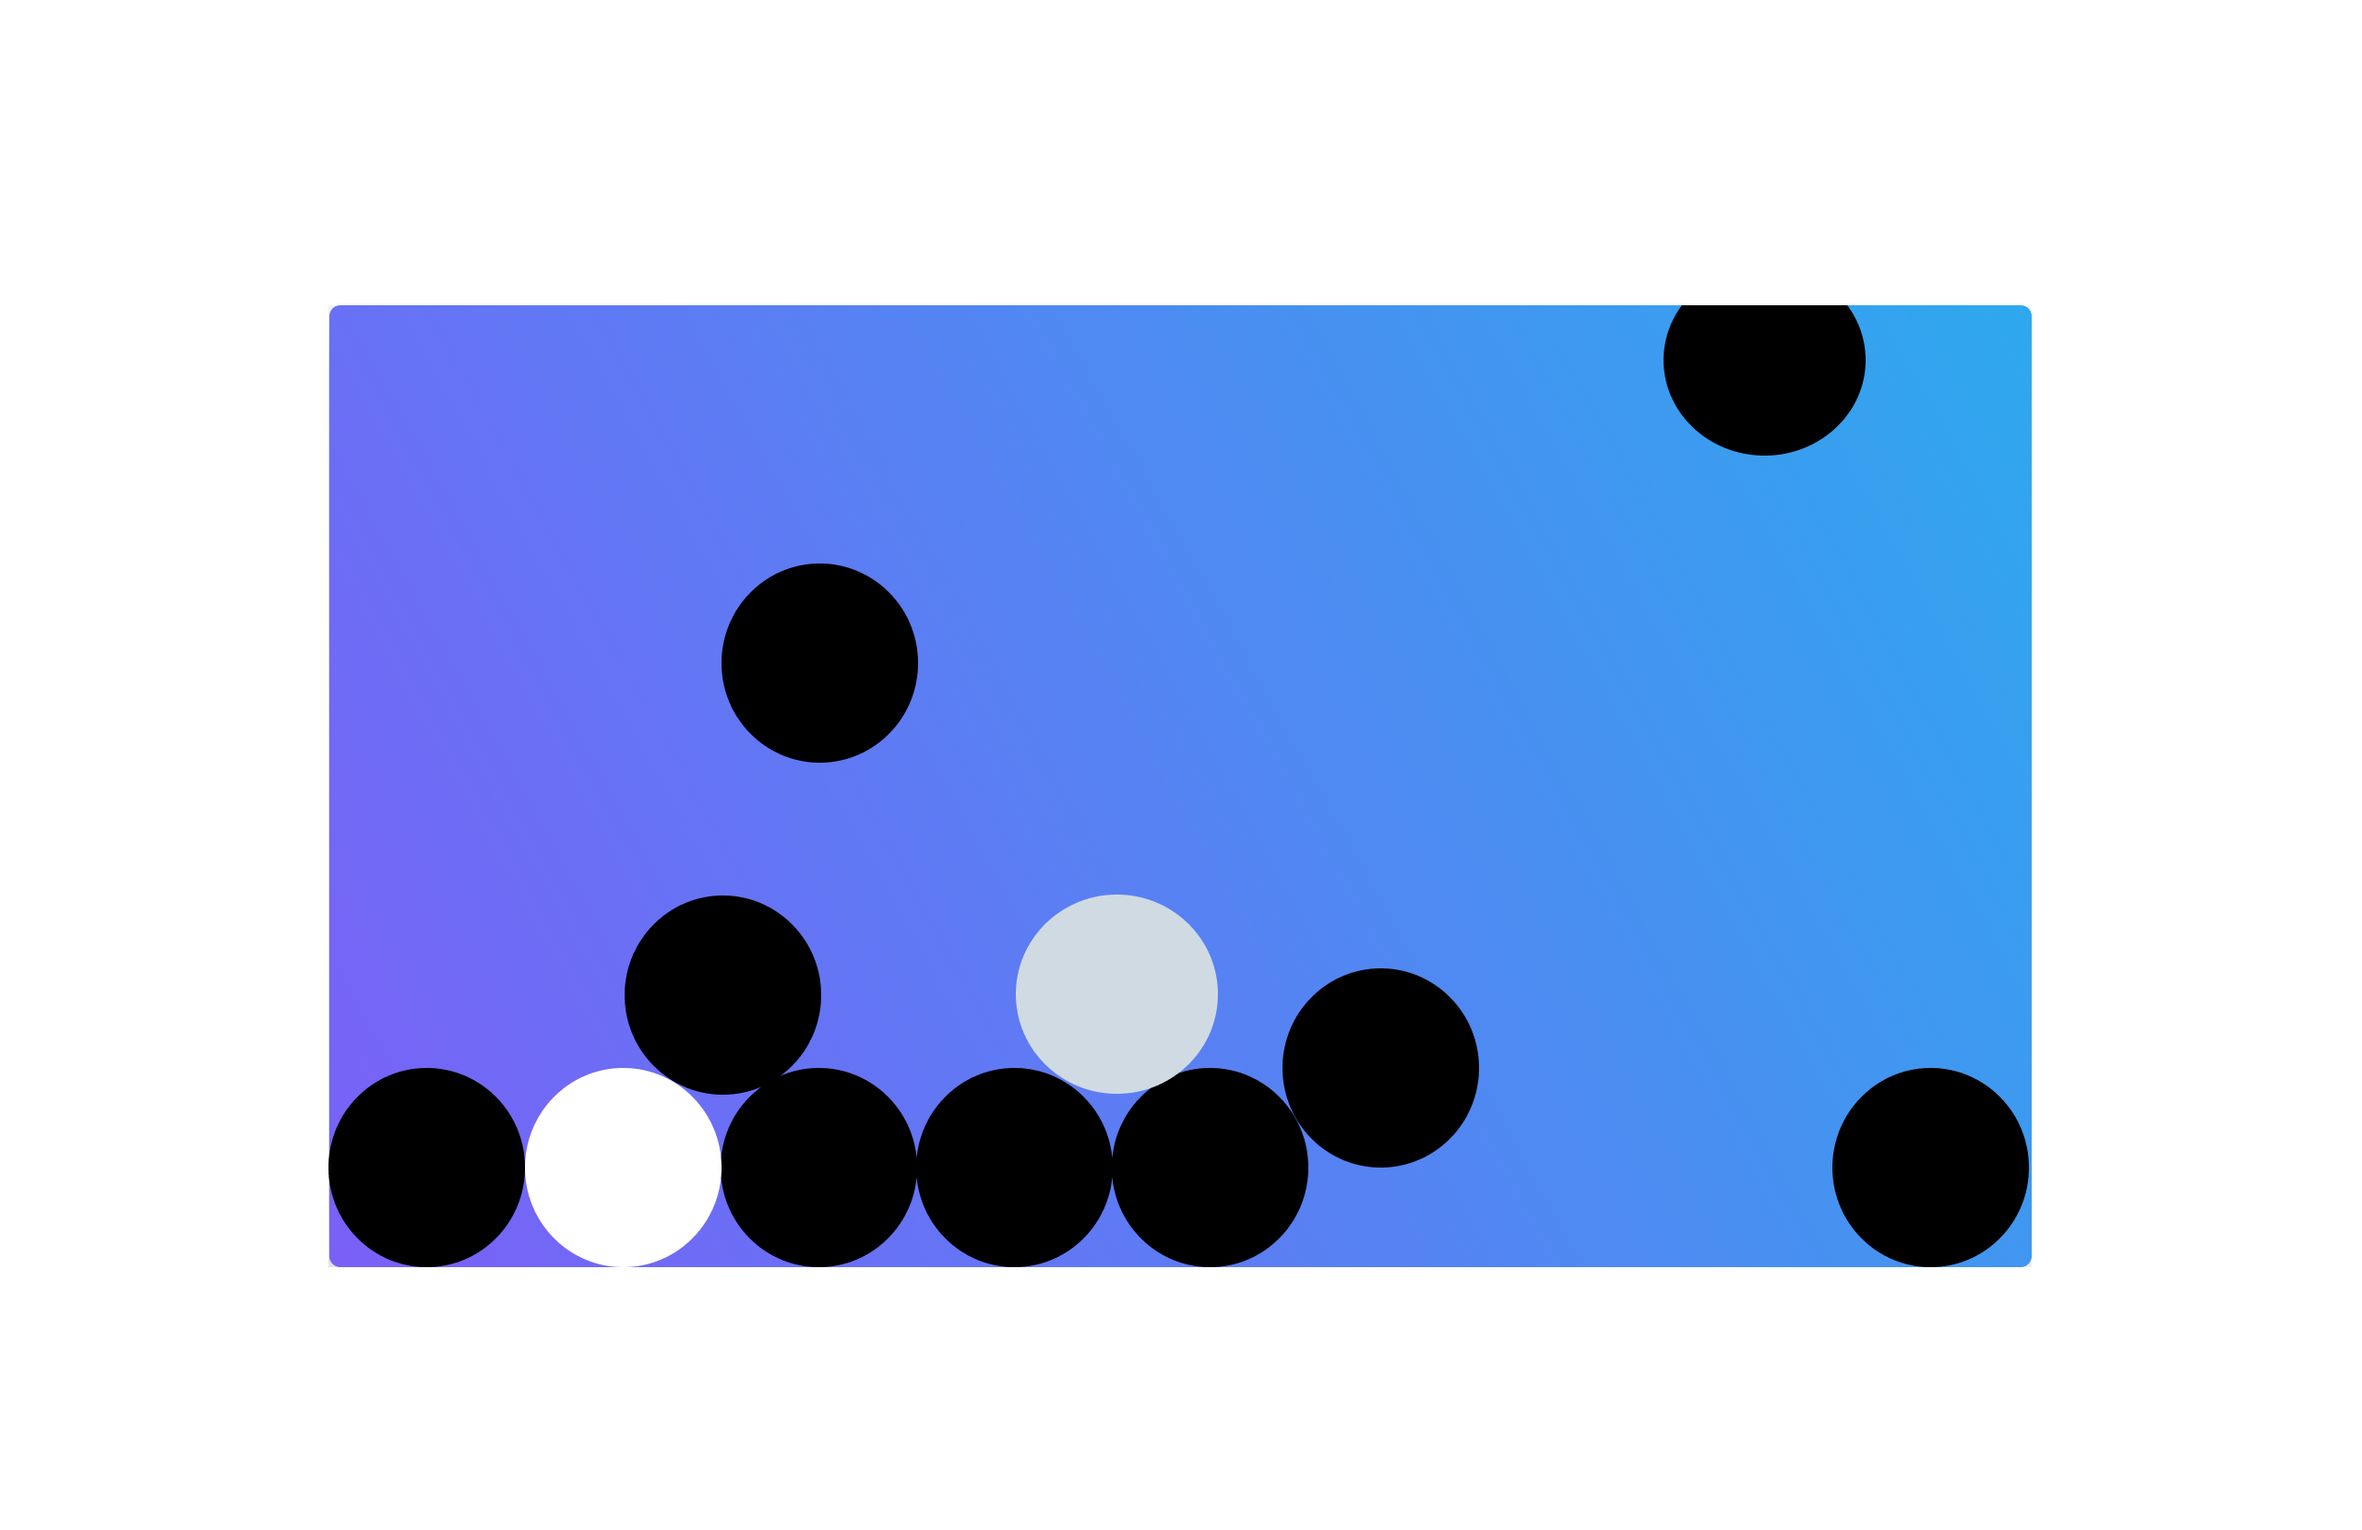
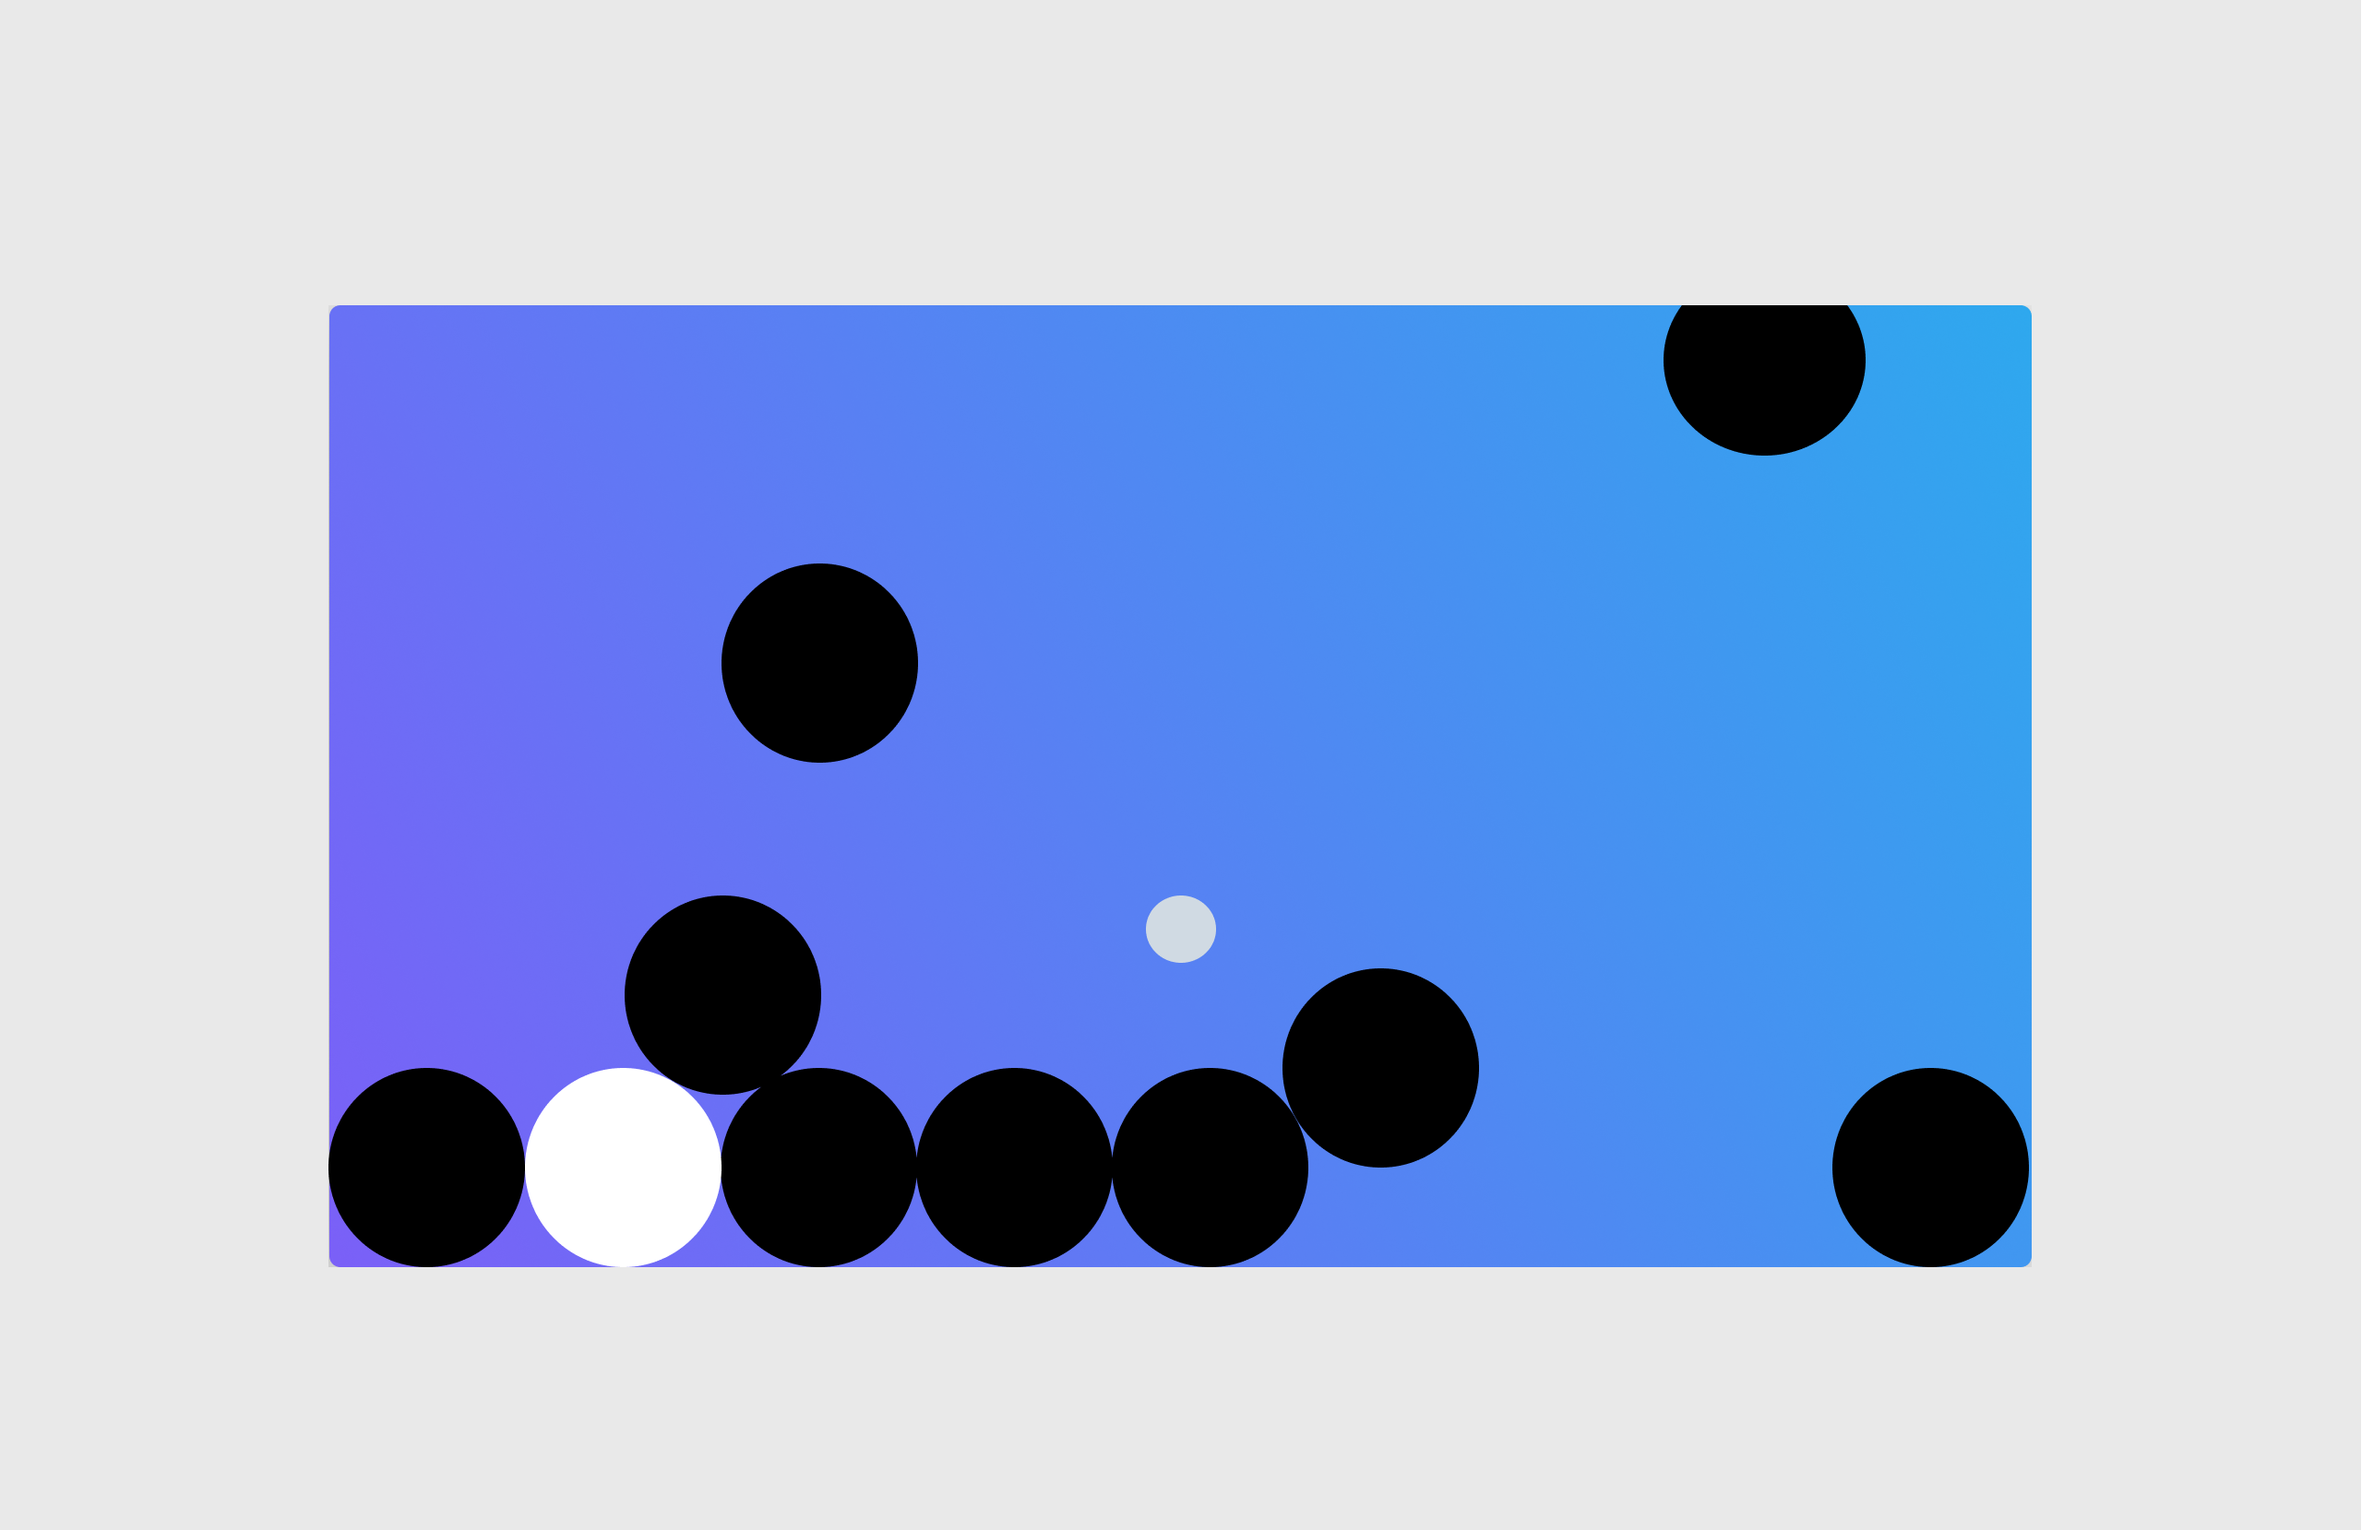
7/8/24

Changed region(s): [[0.4062, 0.5841, 0.5312, 0.7378]]

diff --git a/src/components/Why-choose.jsx b/src/components/Why-choose.jsx
@@ -19,7 +19,7 @@ function Whychoose() {
           <h1 className="absolute z-[9] text-6xl font-medium font-['Montserrat'] leading-none tracking-tighter left-full -translate-x-1/2 top-1/2 -translate-y-1/2 text-zinc-950 ">SERVICE
           {"SERVICE".split("").map((item,index)=><span>{item}</span>)}
           </h1>
-          <div className="card w-full h-full rounded-xl bg-white overflow-hidden">
+          <div style={{backgroundColor:`rgb(233 233 233)`}} className="card w-full h-full rounded-xl overflow-hidden">
             <img className="m-auto mb-5 mt-5 h-20" src="https://financify.ae/wp-content/uploads/2023/06/cloud-satellite-services-min.png" alt="" />
             <h1 className="text-center text-[24px] mb-3 font-medium">Our Service</h1>
             <p className="text-center text-[24px] pr-10 pl-10 tracking-tighter">We deliver exceptional customer service with a straightforward approach that gets the right result at speed. In a fast-moving and often stressful world, we remove the hassle from your mortgage process and provide end-to-end service.</p>
@@ -29,7 +29,7 @@ function Whychoose() {
           <h1 className="absolute z-[9] text-6xl font-medium font-['Montserrat'] leading-none tracking-tighter right-full translate-x-1/2 top-1/2 -translate-y-1/2 text-zinc-950 ">KNOWLEAGE
           {"KNOWLEAGE".split("").map((item,index)=><span>{item}</span>)}
           </h1>
-          <div className="card w-full h-full rounded-xl bg-white overflow-hidden">
+          <div style={{backgroundColor:`rgb(233 233 233)`}}  className="card w-full h-full rounded-xl overflow-hidden">
           <img className="m-auto mb-5 mt-5 h-20" src="https://financify.ae/wp-content/uploads/2023/06/ibm-watson-knowledge-studio@2x-min.png" alt="" />
             <h1 className="text-center text-[24px] mb-3 font-medium">Our Knowledge</h1>
             <p className="text-center text-[24px] pr-10 pl-10 tracking-tighter">We have years of experience, wide market knowledge and a deep understanding of customer requirements. Whether you are employed, self-employed, UAE resident or overseas investor, we can help you achieve your goals.</p>
@@ -42,7 +42,7 @@ function Whychoose() {
           <h1 className="absolute z-[9] text-6xl font-medium font-['Montserrat'] leading-none tracking-tighter left-full -translate-x-1/2 top-1/2 -translate-y-1/2 text-zinc-950 ">SERVICE
           {"RELATIONSHIPS".split("").map((item,index)=><span>{item}</span>)}
           </h1>
-          <div className="card w-full h-full rounded-xl bg-white overflow-hidden">
+          <div style={{backgroundColor:`rgb(233 233 233)`}}  className="card w-full h-full rounded-xl overflow-hidden">
             <img className="m-auto mb-5 mt-5 h-20" src="https://financify.ae/wp-content/uploads/2023/06/partnership-min.png" alt="" />
             <h1 className="text-center text-[24px] mb-3 font-medium">Our Relationships</h1>
             <p className="text-center text-[24px] pr-10 pl-10 tracking-tighter">We have strong business relationships with all prominent lenders in UAE. We can work as your Mortgage Search Engine with access to wide spectrum of lenders and get you deals that are in your best interest.</p>
@@ -52,7 +52,7 @@ function Whychoose() {
           <h1 className="absolute z-[9] text-6xl font-medium font-['Montserrat'] leading-none tracking-tighter right-full translate-x-1/2 top-1/2 -translate-y-1/2 text-zinc-950 ">KNOWLEAGE
           {"TRANSPARENCYE".split("").map((item,index)=><span>{item}</span>)}
           </h1>
-          <div className="card w-full h-full rounded-xl bg-white overflow-hidden">
+          <div style={{backgroundColor:`rgb(233 233 233)`}}  className="card w-full h-full rounded-xl  overflow-hidden">
           <img className="m-auto mb-5 mt-5 h-20" src="https://financify.ae/wp-content/uploads/2023/06/opacity-min.png" alt="" />
             <h1 className="text-center text-[24px] mb-3 font-medium">Our Transparencye</h1>
             <p className="text-center text-[24px] pr-10 pl-10 tracking-tighter">Transparency at the heart of everything we do, as we believe the best results can only be achieved with honesty, integrity, and respect. You can trust us to secure the best outcome for you while you focus your attention wherever it matters the most.</p>

diff --git a/src/components/Assistance.jsx b/src/components/Assistance.jsx
@@ -1,12 +1,13 @@
 import React from "react";
 import { MdEmail } from "react-icons/md";
+import { FaPhone } from "react-icons/fa6";
 
 function Assistance() {
   return (
     <div className="pr-20 pl-20">
       <div
         style={{ backgroundSize: `100% 100%`, padding: ` 70px 0px !important` }}
-        className='need-help relative overflow-hidden w-full h-[30vw] Assistance bg-[url("https://financify.ae/wp-content/uploads/2023/06/Rectangle-1687@2x.png")]'
+        className='need-help relative overflow-hidden w-full h-[27vw] Assistance bg-[url("https://financify.ae/wp-content/uploads/2023/06/Rectangle-1687@2x.png")]'
       >
         <div className="help "></div>
         <div className="help-2 overflow-hidden"></div>
@@ -23,10 +24,18 @@ function Assistance() {
             Apply For Free Consultation
           </h2>
         </div>
-        <div>
-            <div>
+        <div className="flex  gap-5 justify-center mt-5  text-white text-[107%]">
+            <div className="flex items-center gap-2">
             <i><MdEmail /></i>
-            <h1>info@financify.ae</h1>
+            <a href="">info@financify.ae</a>
+            </div>
+            <div className="flex items-center gap-2">
+                <i><FaPhone /></i>
+                <a href="">+971585899398</a>
+            </div>
+            <div className="flex items-center gap-2">
+                <i><FaPhone /></i>
+                <a href="">+971585655007</a>
             </div>
         </div>
       </div>

diff --git a/src/components/Eyes.jsx b/src/components/Eyes.jsx
@@ -14,7 +14,7 @@ function Eyes() {
     })
   return (
     <div className="eyes w-full h-screen overflow-hidden pt-10 bg-custom-gray">
-      <div className='relative w-full h-full bg-cover bg-center bg-[url("src/assets/Frame.png")]'>
+      <div className='relative w-full h-full bg-cover bg-center bg-[url("src/assets/play.png")]'>
         <div className="absolute flex gap-10 top-1/2 left-1/2 -translate-x-[50%] -translate-y-[50%] ">
           <div className=" flex items-center justify-center w-[15vw] h-[15vw] rounded-full bg-white ">
             <div className="relative w-2/3 h-2/3 rounded-full bg-zinc-950 ">
